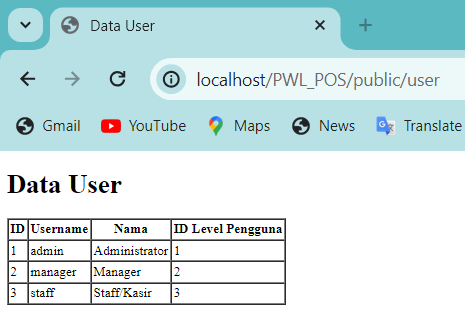
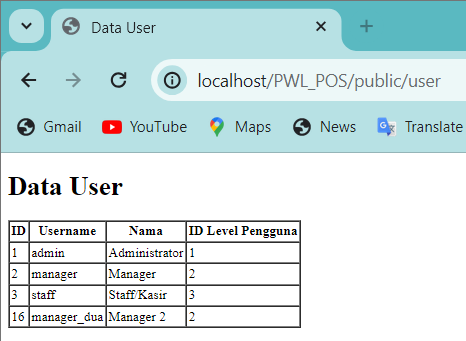
Modifikasi Jobsheet 4

diff --git a/app/Http/Controllers/UserController.php b/app/Http/Controllers/UserController.php
@@ -14,8 +14,8 @@ class UserController extends Controller
     // tambah data user dengan Eloquent Model
     $data = [
         'level_id' => 2,
-        'username' => 'manager_dua',
-        'nama' => 'Manager 2',
+        'username' => 'manager_tiga',
+        'nama' => 'Manager 3',
         'password' => Hash::make('12345')
 
         //Jobsheet3
@@ -25,6 +25,7 @@ class UserController extends Controller
         // 'password' => Hash::make('12345'),
         // 'level_id' => 4
     ];
+    UserModel::create($data);
 
     //jobsheet3
     //UserModel::where('username', 'customer-1')->update($data); //update data user
